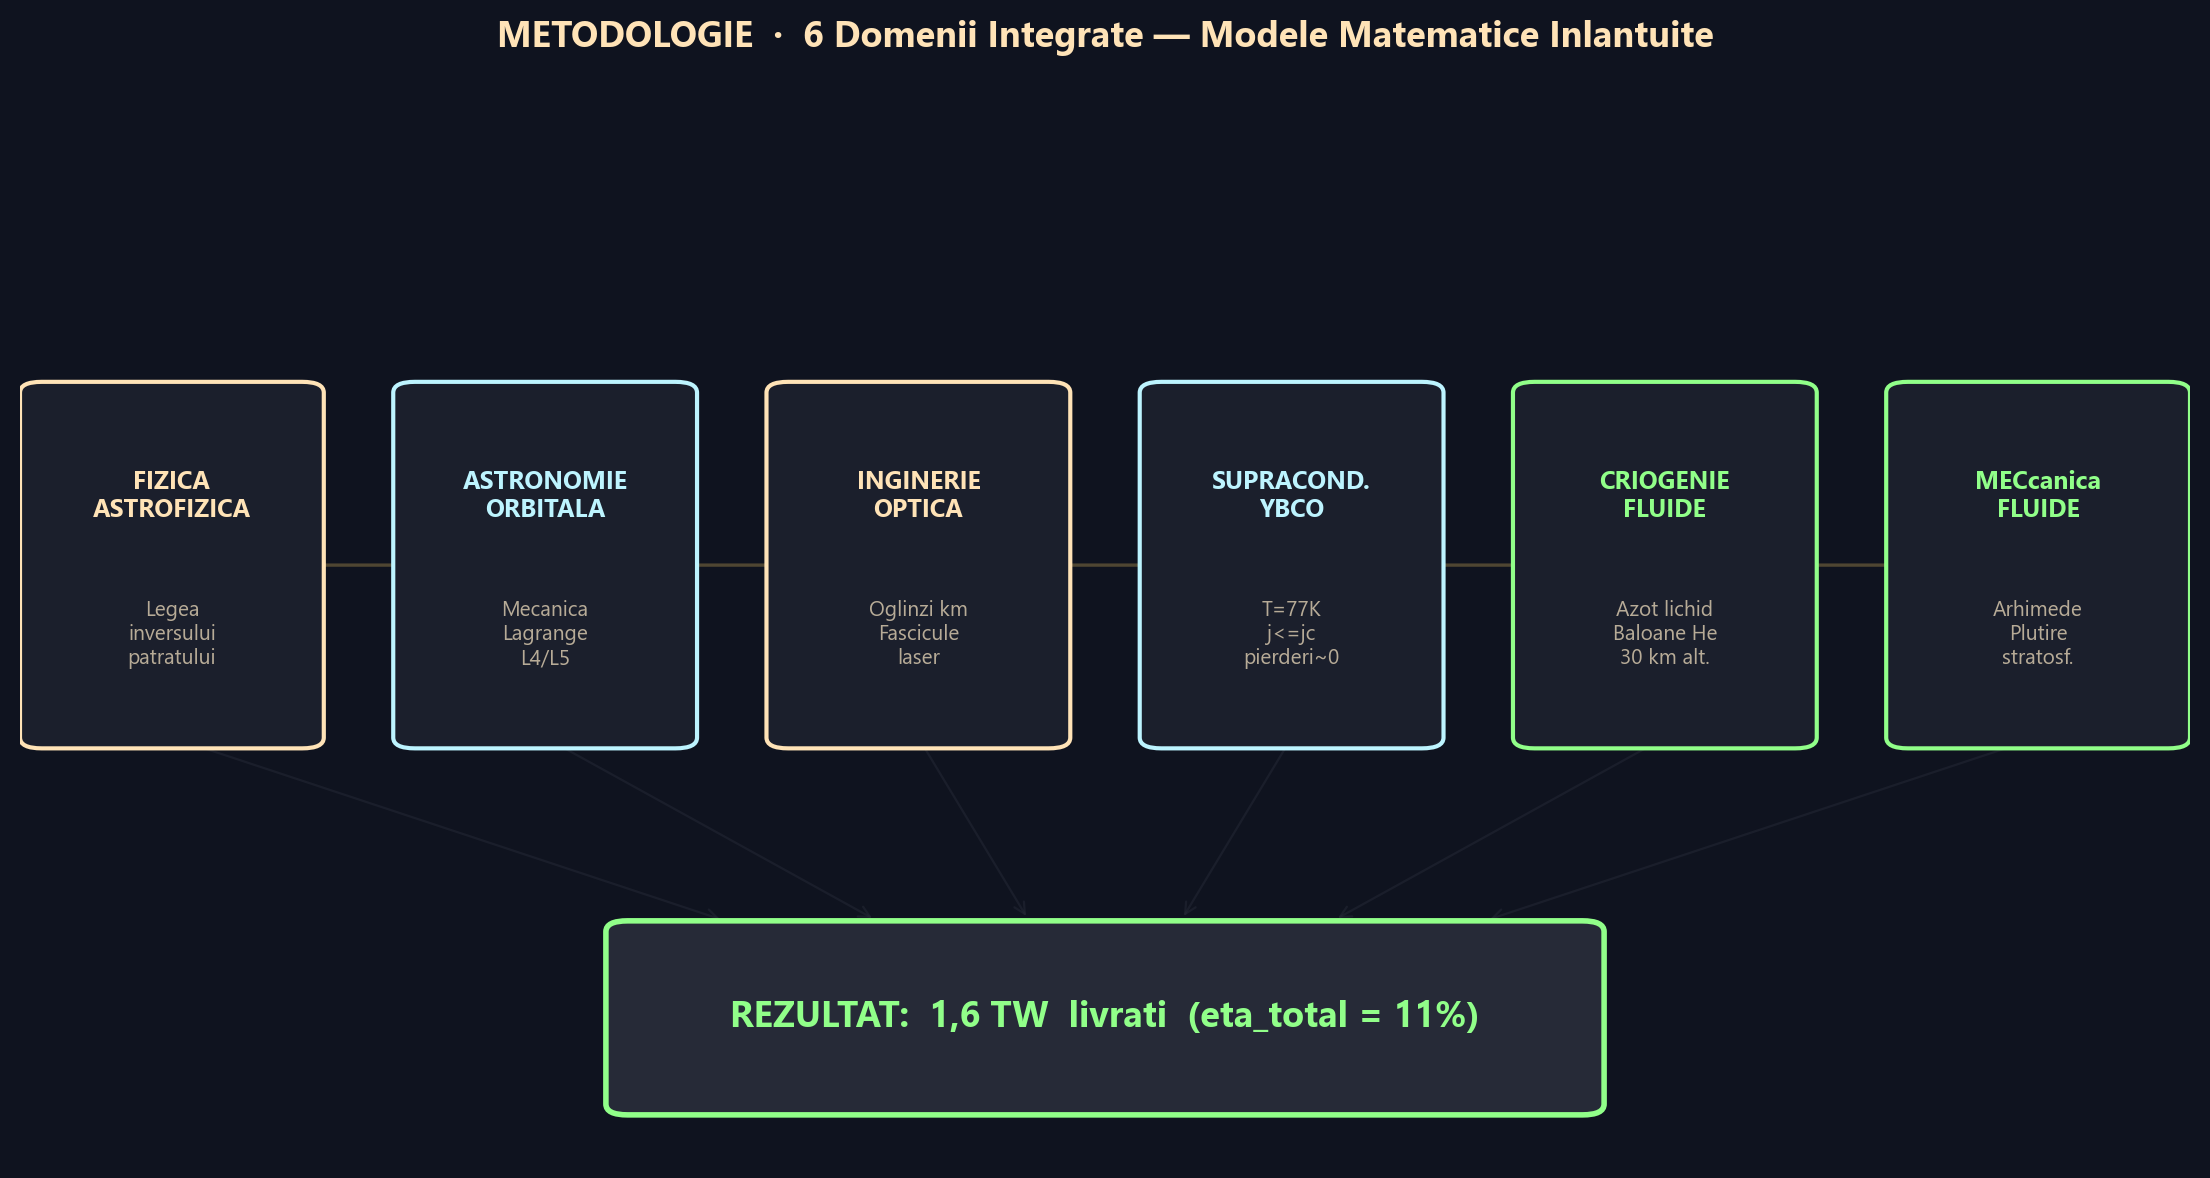
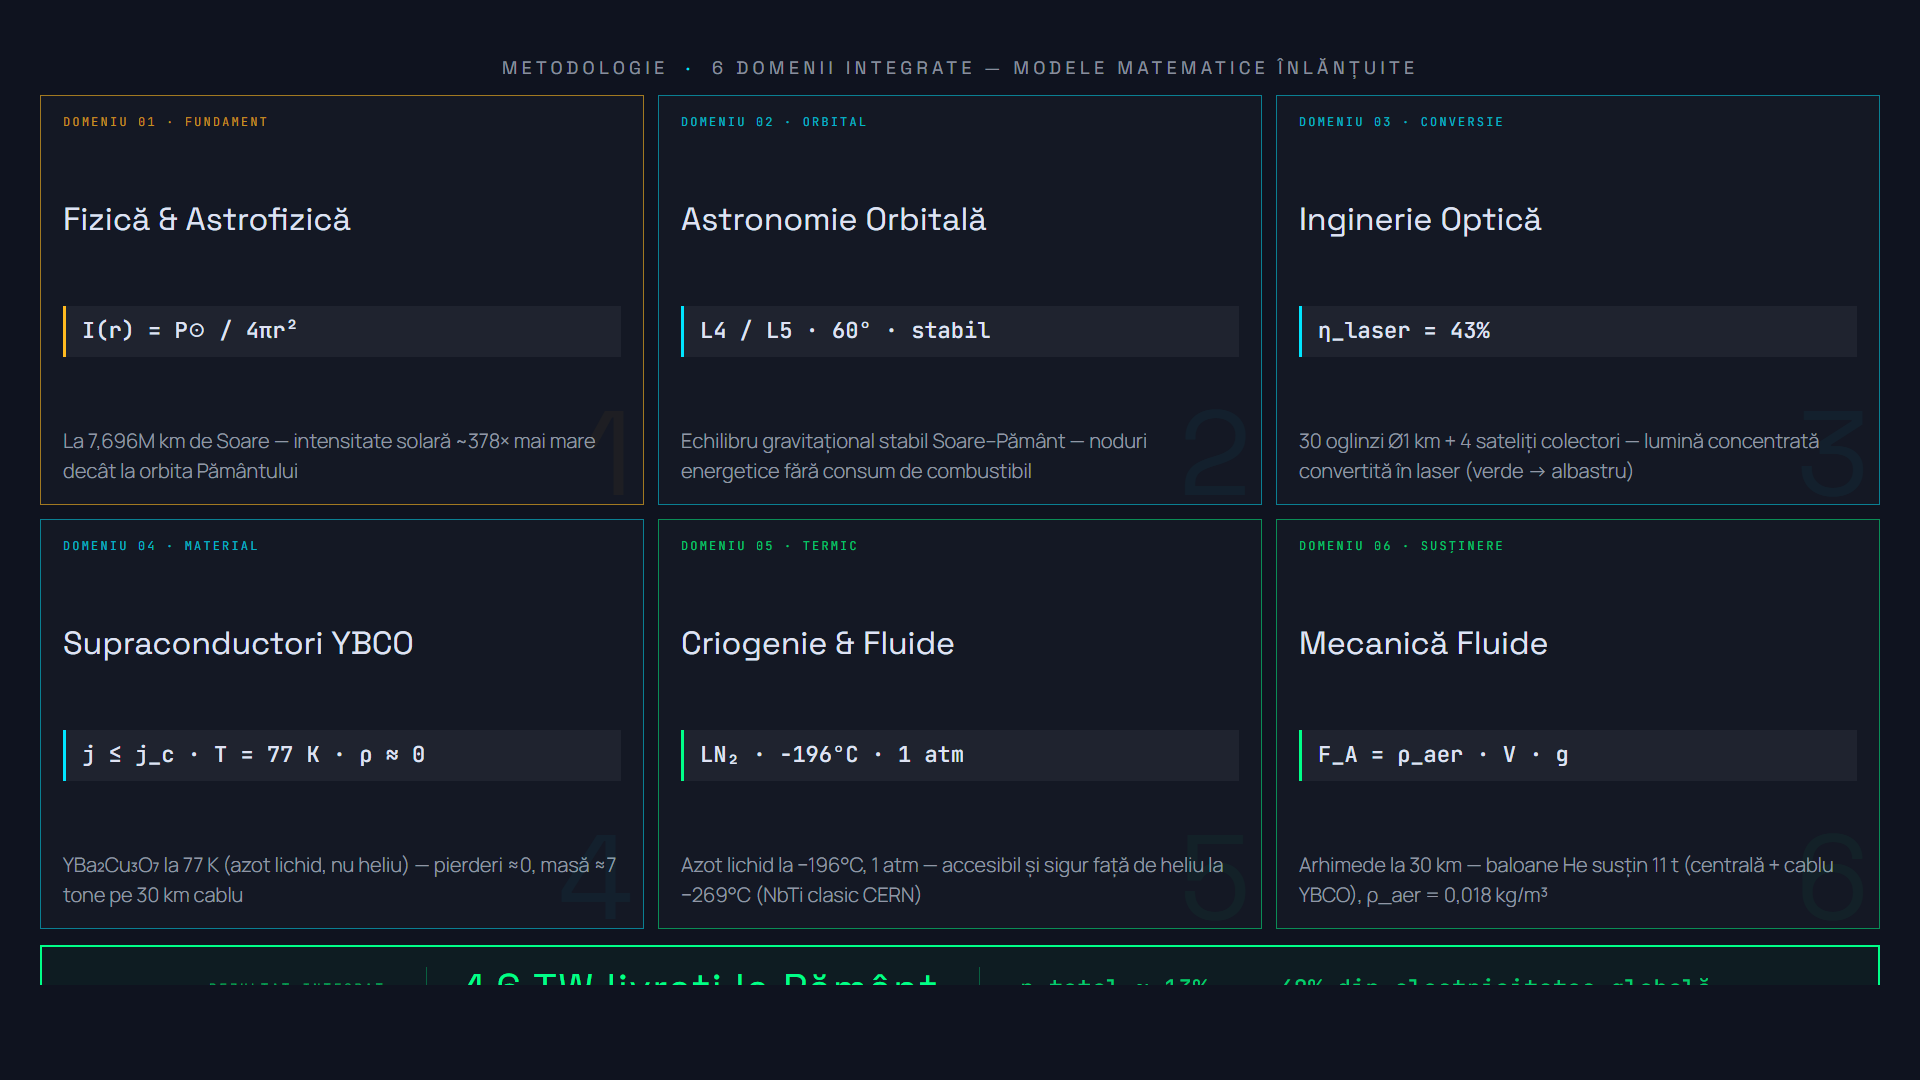
Update PPTX with validated numbers v2 + corrected collaborator order
- Numbers: 7,696M km, I=5,14×10⁵, P_incident=1,21×10¹³W, 378x, η=13%
- Collaborators: Prof. Aaron → Carlo Montanari → Prof. Barna → Zelenschi
- Diagrams updated: formula_power_incident, formula_efficiency,
  diagram_methodology, diagram_lagrange (all v2 corrected)
- Regenerated POLARIS_2019.pptx and POLARIS_365.pptx (89MB each, 9 videos embedded)

diff --git a/generate_pptx.py b/generate_pptx.py
@@ -101,11 +101,11 @@ SLIDES = [
         "title": "ROIURI\nDYSON",
         "body": (
             "30 oglinzi orbitale, fiecare cu diametrul de 1 km,\n"
-            "pozitionate la 7 milioane km fata de Soare.\n\n"
+            "pozitionate la 7,696 milioane km fata de Soare.\n\n"
             "Intensitate solara la aceasta distanta:\n"
-            "I7m = 6,22 x 10^5 W/m2\n\n"
+            "I = 5,14 x 10^5 W/m2\n\n"
             "Putere incidenta totala:\n"
-            "P_incident = 1,46 x 10^13 W"
+            "P_incident = 1,21 x 10^13 W"
         ),
         "accent": C_PRIMARY,
         "image": "images/generated/Image B - Mirror and Sun.png",
@@ -116,11 +116,12 @@ SLIDES = [
     {
         "num": "05", "type": "data_hero", "section": "FIZICA",
         "title": "AVANTAJUL\nPROXIMITATII",
-        "stat": "450x",
+        "stat": "378x",
         "stat_label": "mai multa energie fata de orbita Pamantului",
         "body": (
-            "La 7 milioane km fata de Soare,\n"
-            "intensitatea solara urmeaza legea inversului patratului."
+            "La 7,696 milioane km fata de Soare,\n"
+            "intensitatea solara urmeaza legea inversului patratului.\n"
+            "I = 5,14 x 10^5 W/m2  vs.  1361 W/m2 la 1 UA"
         ),
         "accent": C_PRIMARY,
         "image": "images/generated/Image K - Solar Mirror Dyson.png",
@@ -151,9 +152,8 @@ SLIDES = [
             "L4 si L5 — puncte gravitational stabile\n"
             "in sistemul Soare-Pamant.\n\n"
             "POLARIS le foloseste ca noduri de releu energetic:\n"
-            "P_L4 = 2,83 TW per nod\n\n"
-            "Eficienta receptiei la Lagrange:\n"
-            "eta_centralizare = 60%"
+            "P_L4 = 2,34 TW per nod\n\n"
+            "47% livrat polilor · 53% surplus → Star Power Grid"
         ),
         "accent": C_TERTIARY,
         "image": "assets/diagrams/diagram_lagrange.png",
@@ -313,7 +313,7 @@ SLIDES = [
             "·  Fabricarea si lansarea oglinzilor de 1 km la 7 milioane km\n"
             "   — tehnologie inexistenta in prezent\n\n"
             "·  Mententa robotica la distante extreme — nerezolvata\n\n"
-            "·  Eficienta cumulata eta = 11% — necesita verificare experimentala\n\n"
+            "·  Eficienta cumulata eta = 13% — necesita verificare experimentala\n\n"
             "·  Impactul fasciculelor laser de mare putere asupra atmosferei — partial neevaluat\n\n"
             "Recunoasterea limitarilor este parte integranta a abordarii stiintifice rigoroase."
         ),
@@ -1196,14 +1196,14 @@ def build_credits(prs, data):
     add_rect(slide, Inches(0.62), Inches(4.85), Inches(6.0), Inches(0.02), C_OUTLINE)
 
     colaboratori_text = (
-        "Daniel-Justinian ZELENSCHI\n"
-        "  Ing. chimic (UCL + Melbourne) · PhD(c) AI · NASA Ames Research Center\n"
-        "  Space Settlement Contest — Premiul II\n\n"
+        "Prof. Francisc Dionisie AARON — Mentor & Coordonator\n"
+        "  ICHB — Liceul Teoretic International de Informatica\n\n"
         "Carlo Emilio MONTANARI\n"
-        "  Fizician aplicat · Doctorand Dinamica Fasciculelor, CERN / Univ. Bologna\n"
-        "  Consultanta: dinamica fasciculelor de inalta precizie (LHC -> POLARIS)\n\n"
-        "Coordonator: Prof. Aaron FRANCISC\n"
-        "  ICHB — Liceul Teoretic International de Informatica"
+        "  Fizician · Doctorand Dinamica Fasciculelor, CERN / Univ. Bologna\n\n"
+        "Prof. Univ. Dr. Valentin BARNA\n"
+        "  Fac. Fizica UB — Optica & Fotonica · conversie solara→laser\n\n"
+        "Daniel-Justinian ZELENSCHI\n"
+        "  Ing. chimic (UCL + Melbourne) · PhD(c) AI · NASA Ames Research Center"
     )
     add_body(slide, colaboratori_text,
              Inches(0.62), Inches(4.95), Inches(6.0), Inches(2.0),
